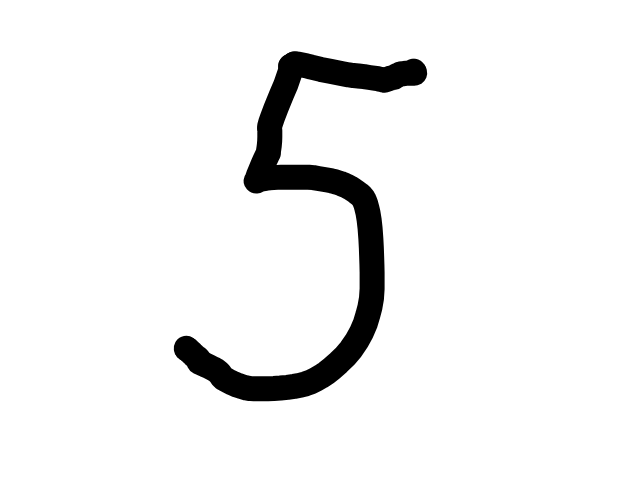
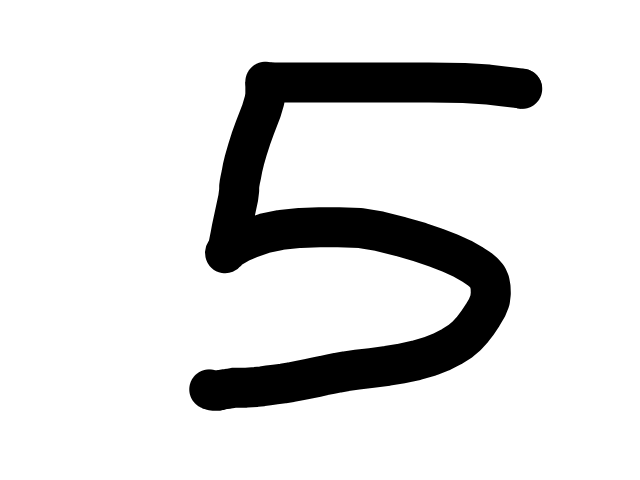
Add test examples, add requirements.txt

Changed region(s): [[0.25, 0.0938, 0.8438, 0.875]]

diff --git a/ImageNN.py b/ImageNN.py
@@ -444,8 +444,11 @@ def load_examples(path, purpose = 0):
 
     names = os.listdir(path)
     dataset = []
+    names = sorted(names, key = lambda x: x[0])
+    namess = []
     if purpose == 0:
         for name in names:
+            namess.append(name)
             name = path + '/' + name
             if ('.png' in str(name)) or ('.jpg' in str(name)):
                 arr = []
@@ -462,7 +465,7 @@ def load_examples(path, purpose = 0):
 
                 arr = tools.flat(arr)
                 dataset.append(arr)
-        return dataset
+        return [dataset, namess]
     elif purpose == 1:
         for name in names:
             o = [0.0]*10
@@ -547,21 +550,21 @@ else:
             except Exception as e:
                 print(f"Ошибка загрузки конфигурации: {e}")
                 print("Используется стандартная архитектура")
-                create_standart_nn()
+                nn = create_standart_nn()
         else:
             print("Используется стандартная архитектура")
-            create_standart_nn()
+            nn = create_standart_nn()
         tools.load_model_h5(nn, "weight_saves/" + model_name + ".h5")
 
         if '--graph' in flags or '-g' in flags:
             tools.show_loss_save("loss_saves/" + model_name + ".txt")
 
-        ds = load_examples(images_path)
-        for i in range(len(ds)):
+        ds = load_examples(images_path, 0)
+        for i in range(len(ds[0])):
             print('#---------------------------#')
-            nn.run(ds[i])
+            nn.run(ds[0][i])
             ansnn = nn.get_best_index()
-            print(f'Test number {i + 1}')
+            print(f'Test file: {ds[1][i]}')
             print("Answer: ", ansnn)
 
     elif '--train' in flags or '-t' in flags:
@@ -613,8 +616,7 @@ else:
         DATA_FILE_NAME = "weight_saves/" + z + ".h5"
         LOSS_FILE_NAME = "loss_saves/" + z + ".txt"
 
-        # Создаем стандартную сеть
-        create_standart_nn()
+        nn = create_standart_nn()
 
         total_loss_statistics = []
         train_data = load_examples(train_path, 1)
